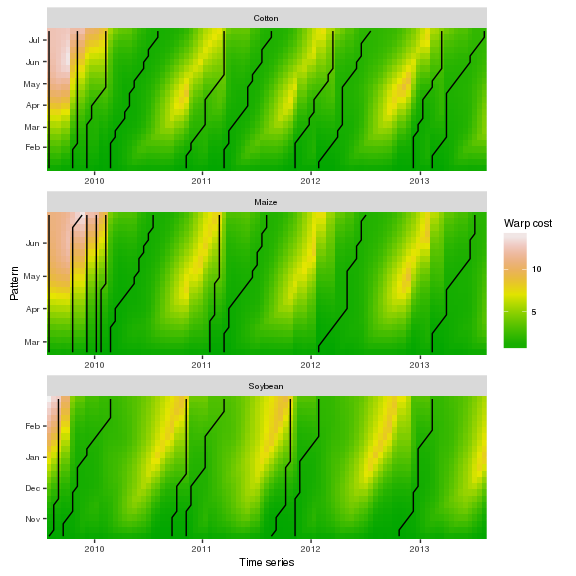
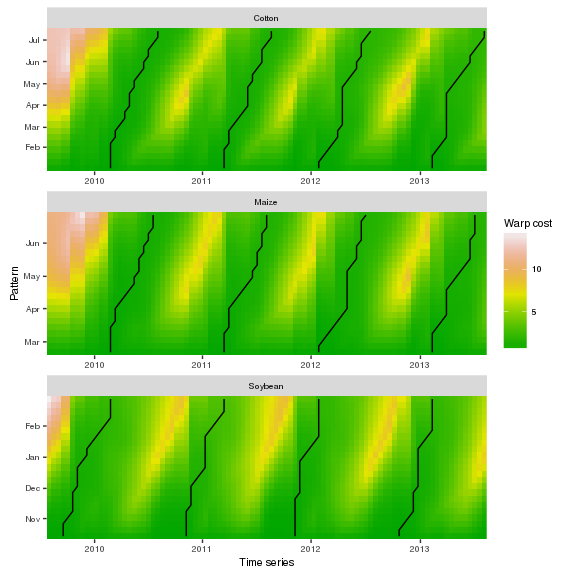
Update twdtw-class. No changes in the usage. Update documentation.

diff --git a/README.md b/README.md
@@ -90,7 +90,7 @@ Fig. 4. The best match for each crop type.
 to plot minimum cost paths
 
 ``` r
-plot(x = matches, type = "paths") + 
+plot(x = matches, type = "paths", n = 1:4) + 
      theme(text = element_text(size = 8, family = "Helvetica"))
 ```
 
@@ -104,7 +104,7 @@ and, finally to classify the subintervals of the time series
 ``` r
 plot(x = matches, type = "classification",
      from = "2009-09-01", to = "2013-09-01", 
-     by = "6 month", overlap = 0.3) + 
+     by = "6 month", overlap = 0.4) + 
      theme(text = element_text(size = 8, family = "Helvetica"))
 ```
 
